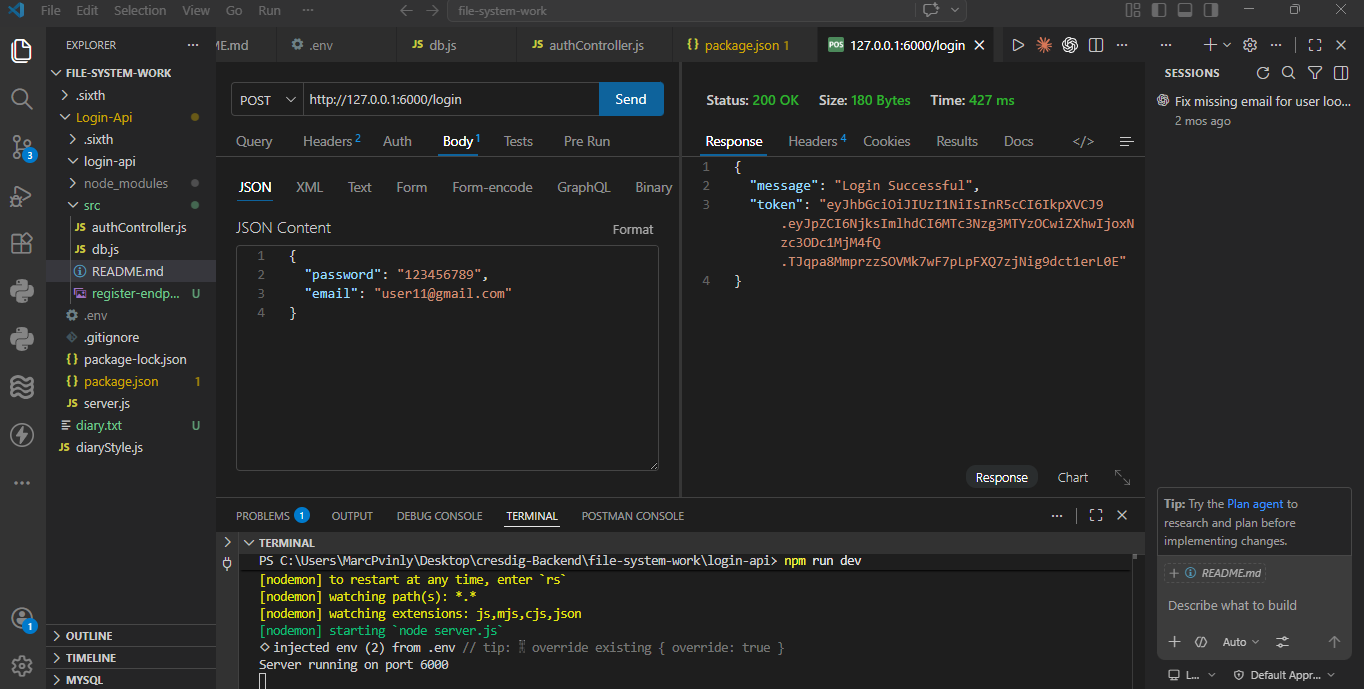
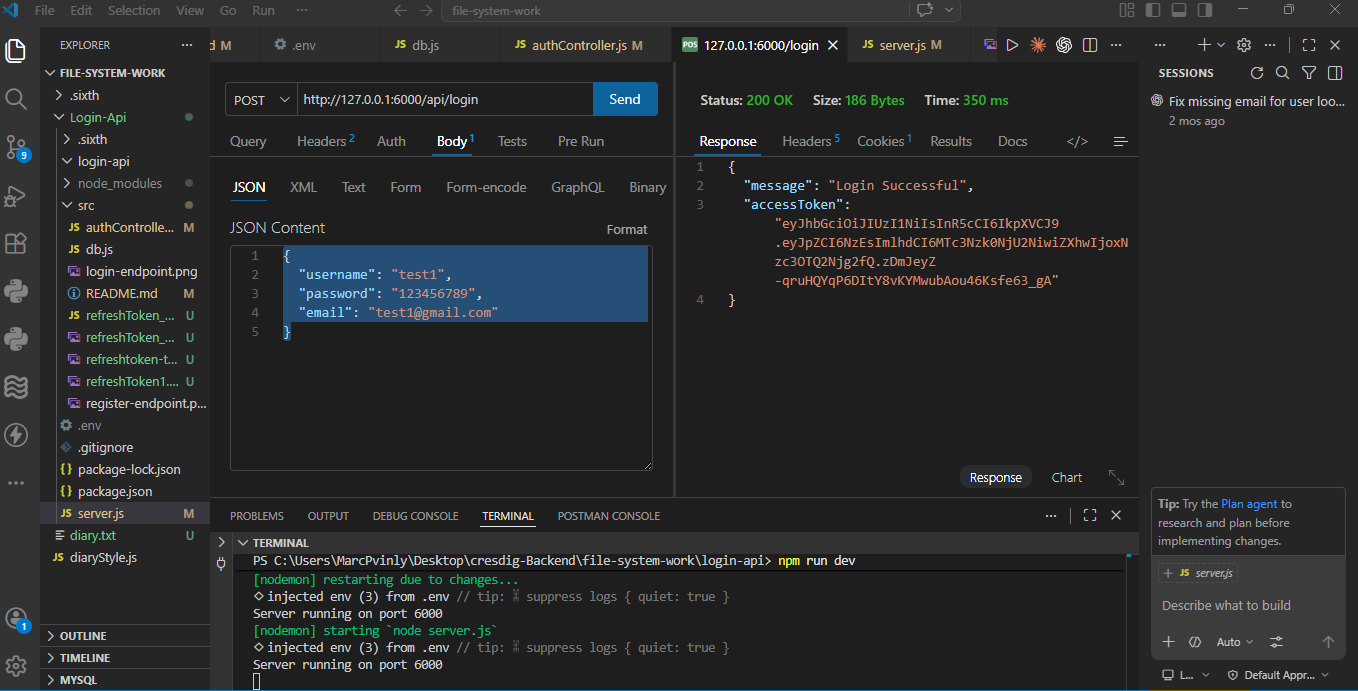
add refresh token and readme update

diff --git a/Login-Api/src/authController.js b/Login-Api/src/authController.js
@@ -1,6 +1,7 @@
 import pool from './db.js';
 import bcrypt from 'bcrypt';
 import jwt from 'jsonwebtoken';
+import { parseCookie } from './refreshToken_helper.js';
 
 // Logic for User Registration
 export const registerUser = async (req, res, data) => {
@@ -9,6 +10,11 @@ export const registerUser = async (req, res, data) => {
     if (!username || !email || !password) {
         res.statusCode = 400;
         return res.end(JSON.stringify({ message: "All fields required" }));
+    }
+
+    if (!email.includes('@') || !email.includes('.com')) {
+        res.statusCode = 400;
+        return res.end(JSON.stringify({ message: "Invalid email format" }));
     }
 
     // Check if user exists
@@ -36,11 +42,49 @@ export const loginUser = async (req, res, data) => {
     const user = result.rows[0];
 
     if (user && await bcrypt.compare(password, user.password)) {
-        const token = jwt.sign({ id: user.id }, process.env.JWT_SECRET, { expiresIn: '1h' });
+
+        const accessToken = jwt.sign({ id: user.id }, process.env.JWT_SECRET, { expiresIn: '2m' });
+        const refreshToken = jwt.sign({ id: user.id }, process.env.REFRESH_SECRET, { expiresIn: '1d' });
+        res.writeHead(200, {
+            'Content-Type': "application/json",
+            'Set-Cookie': `refreshToken=${refreshToken}; HttpOnly; sameSite=strict; max-age = ${7 * 24 * 60 * 60}`
+
+        })
         res.statusCode = 200;
-        return res.end(JSON.stringify({ message: "Login Successful", token }));
+        return res.end(JSON.stringify({ message: "Login Successful", accessToken }));
     }
 
     res.statusCode = 401;
     res.end(JSON.stringify({ error: "Invalid credentials" }));
 };
+
+//refresh token logic
+export const refreshUser = async (req, res, data) => {
+    const cookies = parseCookie(req);
+    // console.log("Cookies received by server:", cookies);
+    const refreshToken = cookies.refreshToken 
+
+    if(!refreshToken){
+        res.statusCode = 401;
+        return res.end(JSON.stringify({
+            error: "No refresh token provided"
+        }));
+    }
+try{
+    // Verify the refresh token
+    const decoded = jwt.verify(refreshToken, process.env.REFRESH_SECRET)
+ // Generate a fresh access token
+ const newAccessToken = jwt.sign({id: decoded.id}, process.env.JWT_SECRET, {expiresIn: '2m'})
+
+ res.statusCode = 200;
+ res.end(JSON.stringify({
+    accessToken: newAccessToken
+ }))
+}catch(error){
+    res.statusCode =400;
+    res.end(JSON.stringify({
+   error: "Invalid refresh token"
+}));
+    
+}
+}

diff --git a/Login-Api/server.js b/Login-Api/server.js
@@ -1,5 +1,5 @@
 import http from 'http';
-import { registerUser, loginUser } from './src/authController.js';
+import { registerUser, loginUser, refreshUser } from './src/authController.js';
 
 const getBody = (request) => new Promise((resolve) => {
     let body = '';
@@ -9,16 +9,21 @@ const getBody = (request) => new Promise((resolve) => {
 
 const server = http.createServer(async (req, res) => {
     res.setHeader('Content-Type', 'application/json');
-
+ 
     try {
         const body = (req.method === 'POST') ? await getBody(req) : null;
 
-        if (req.url === '/register' && req.method === 'POST') {
+        if (req.url === '/api/register' && req.method === 'POST') {
             await registerUser(req, res, body);
         } 
-        else if (req.url === '/login' && req.method === 'POST') {
+        else if (req.url === '/api/login' && req.method === 'POST') {
             await loginUser(req, res, body);
         } 
+
+        else if (req.url === '/api/refresh' && req.method == 'POST') {
+            await refreshUser(req, res);
+        } 
+
         else {
             res.statusCode = 404;
             res.end(JSON.stringify({ error: 'Route not found' }));

diff --git a/Login-Api/src/refreshToken_helper.js b/Login-Api/src/refreshToken_helper.js
@@ -1,0 +1,14 @@
+export const parseCookie = (req) => {
+    const list = {};
+    const cookieHeader = req.headers.cookie;
+    if (!cookieHeader) return list;
+
+    cookieHeader.split(';').forEach(cookie => {
+        let [name, ...rest] = cookie.split('=');
+        name = name.trim();
+        if (!name) return;
+        const value = rest.join('=').trim();
+        list[name] = decodeURIComponent(value);
+    });
+    return list;
+};

diff --git a/Login-Api/src/README.md b/Login-Api/src/README.md
@@ -5,6 +5,7 @@ This is a backend authentication service built as part of my coding course. It h
 ## 🛠 Features
 - **User Registration**: Hash passwords before saving to the database.
 - **Secure Login**: Validates credentials and returns a JWT (JSON Web Token).
+- **refresh**: Validates credentials and returns a JWT (JSON Web Token) with addition of refresh token to extend user session.
 - **Protected Routes**: Restricts access to specific data unless the user is logged in.
 
 ## 💻 Tech Stack
@@ -12,6 +13,8 @@ This is a backend authentication service built as part of my coding course. It h
 - **Nodemon** (for server auto reload)
 - **Bcrypt** (Password hashing)
 - **JSON Web Token (JWT)** (Authentication)
+- **JSON Web Token (JWT) refresh token** (Authentication)
+- **Cookie-parser** (Authentication)
 - **PostgreSQL** 
 
 ## 🚦 API Endpoints
@@ -20,6 +23,7 @@ This is a backend authentication service built as part of my coding course. It h
 | :--- | :--- | :--- |
 | POST | `/api/register` | Register a new user |
 | POST | `/api/login` | Login and get a token |
+| POST | `/api/refresh` | refresh token |
 
 ## API TESTING (THUNDER CLIENT) 
 
@@ -29,9 +33,12 @@ This is a backend authentication service built as part of my coding course. It h
 ### Login EndPoint
 ![login Success](./login-endpoint.png)
 
+### Refresh EndPoint
+![Refresh Token Success](./refreshtoken-testing.png)
+
 
 ## ⚙ Setup Instructions
 1. Navigate to this folder: `cd login-api`
 2. Install packages: `npm install`
-3. Create a `.env` file and add your `JWT_SECRET` and `POSTGRE_PASSWORD`.
+3. Create a `.env` file and add your `JWT_SECRET`, `REFRESH_SECRET and `POSTGRE_PASSWORD`.
 4. Run the server: `npm run dev`
